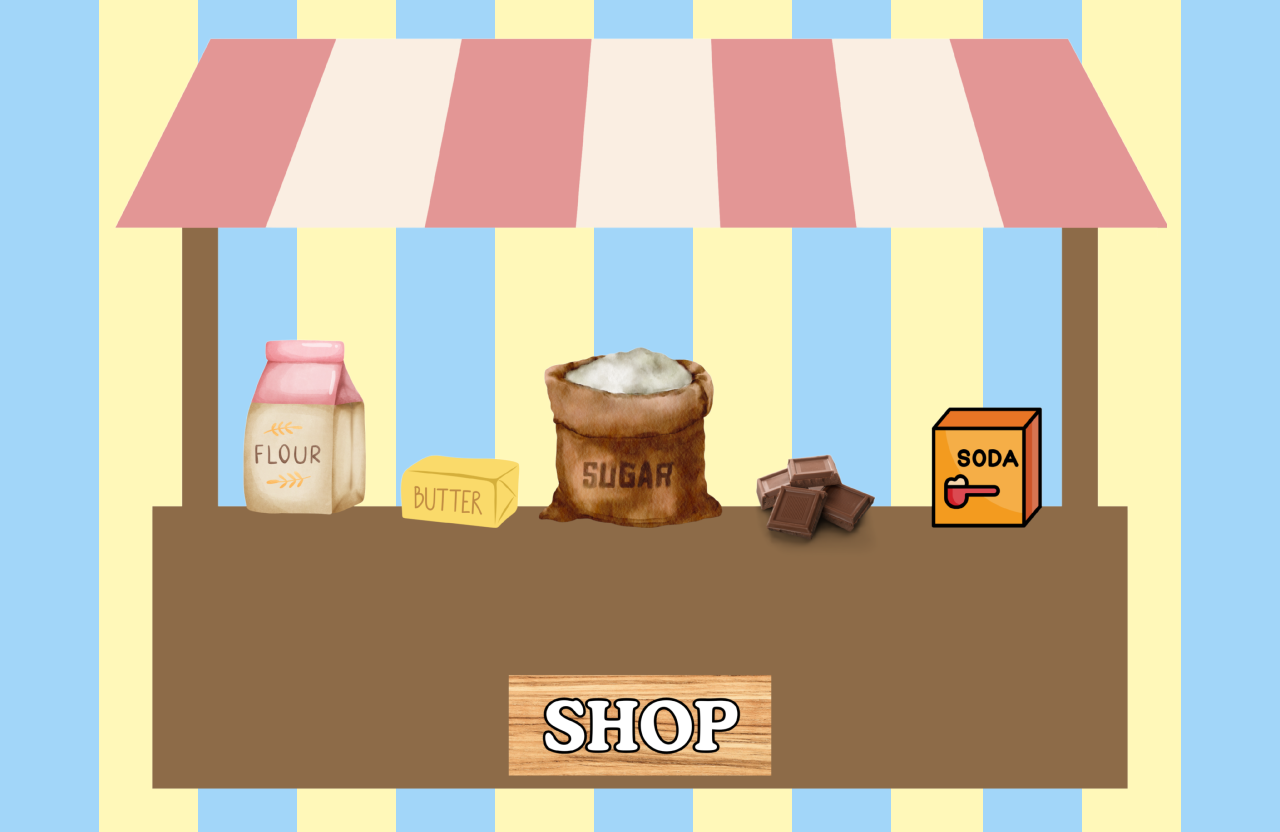
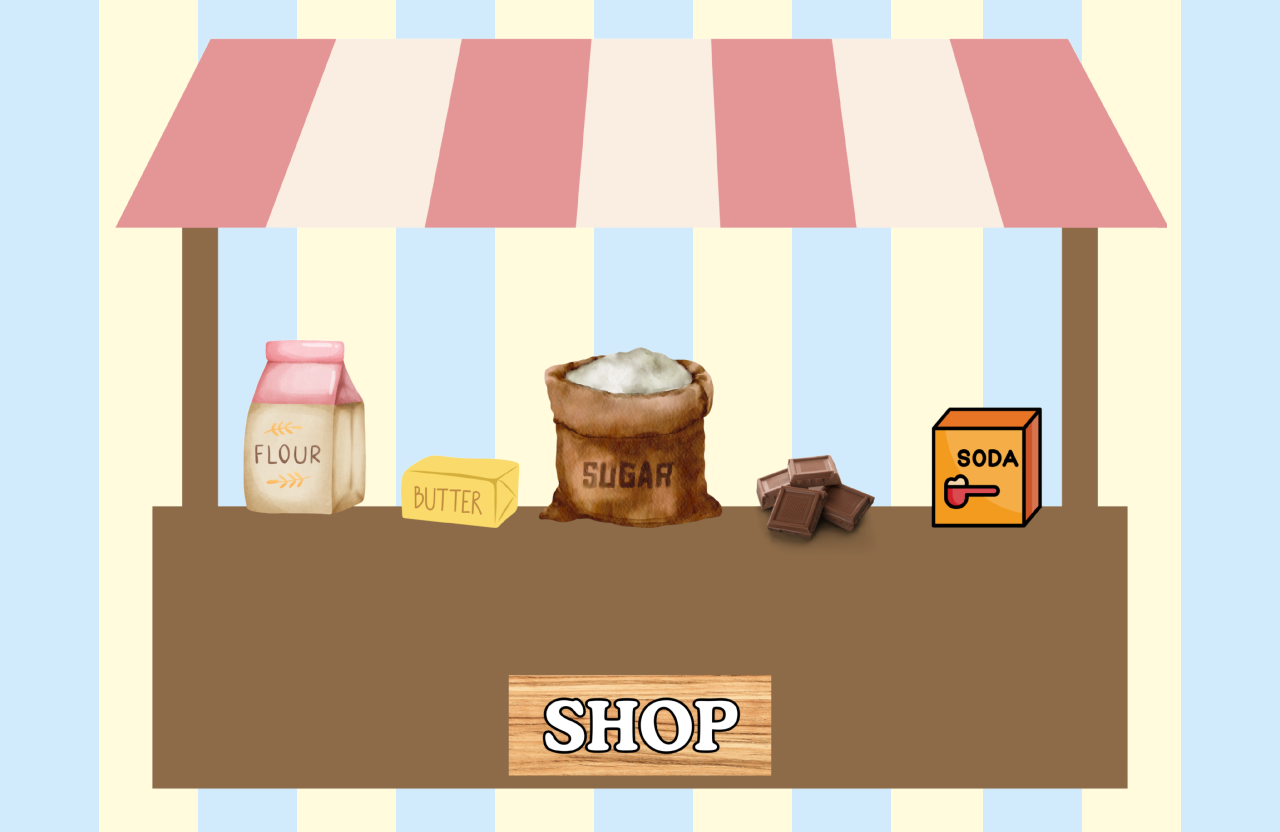
Changed opacity on Shopping background

diff --git a/src/BakingMinigame.ts b/src/BakingMinigame.ts
@@ -13,7 +13,6 @@ export class BakingMinigame {
 
     private timeRemaining: number;
 
-    // ADDED '!' HERE
     private currentProblem!: { question: string; answer: number };
     private correctAnswers: number = 0; 
     private totalProblems: number = 0; 
@@ -22,7 +21,6 @@ export class BakingMinigame {
     private minigameUIGroup: Konva.Group; 
     private choiceUIGroup: Konva.Group; 
     
-    // ADDED '!' TO THESE UI ELEMENTS
     private timerText!: Konva.Text;
     private problemText!: Konva.Text;
     private scoreText!: Konva.Text; 
@@ -146,10 +144,9 @@ export class BakingMinigame {
         });
         this.minigameUIGroup.add(this.inputText);
 
-        // TIMER - MOVED TO CENTER, BELOW INPUT
         this.timerText = new Konva.Text({
             x: 0,
-            y: inputBoxY + inputBoxHeight + 20, // approx 0.55 height
+            y: inputBoxY + inputBoxHeight + 20, 
             width: stageWidth,
             text: `Time: ${this.timeRemaining}s`,
             fontSize: Math.min(stageWidth * 0.024, 28),
@@ -159,10 +156,9 @@ export class BakingMinigame {
         });
         this.minigameUIGroup.add(this.timerText);
 
-        // FEEDBACK - MOVED DOWN
         this.feedbackText = new Konva.Text({
             x: 0,
-            y: inputBoxY + inputBoxHeight + 60, // approx 0.62 height
+            y: inputBoxY + inputBoxHeight + 60, 
             width: stageWidth,
             text: '',
             fontSize: Math.min(stageWidth * 0.028, 34),
@@ -171,7 +167,6 @@ export class BakingMinigame {
         });
         this.minigameUIGroup.add(this.feedbackText);
 
-        // INSTRUCTIONS - MOVED DOWN
         const instructions = new Konva.Text({
             x: 0,
             y: stageHeight * 0.75,
@@ -184,44 +179,40 @@ export class BakingMinigame {
         this.minigameUIGroup.add(instructions);
 
         //Exit Button
-        const exitButton = new ExitButton(this.stage, this.layer, () => {
+        new ExitButton(this.stage, this.layer, () => {
             this.cleanup();
-            window.location.href = '/login.hmtl'; //go to login page
+            window.location.href = '/login.html'; 
         });
 
         //Info Button
-        const infoButton = new InfoButton(
+        new InfoButton(
             this.stage, 
             this.layer,
             'Solve as many division problems as you can within the time limit to earn bonus tips! \n\nType your answer and press ENTER. \n\nEach correct answer gives you $1 tip. \nGood luck!'
         );
 
-        // Shuffle button to the right of input box
+        // Shuffle button
         this.shuffleButton = new ShuffleButton(
             this.stage,
             this.layer,
             this.minigameUIGroup,
-            stageWidth * 0.3, // inputBoxWidth
+            stageWidth * 0.3, 
             inputBoxY,
             inputBoxHeight,
             () => this.shuffleProblem(),
-            50 // spacing
+            50 
         );
     }
 
     private shuffleProblem(): void {
-        // Clear user input
         this.userInput = '';
         this.updateInputDisplay();
         
-        // Clear any feedback
         if (this.feedbackText) {
             this.feedbackText.text('');
         }
         
-        // Generate new problem
         this.generateNewProblem();
-        
         this.layer.draw();
     }
     
@@ -235,10 +226,11 @@ export class BakingMinigame {
 
         const stageWidth = this.stage.width();
         const stageHeight = this.stage.height();
-        const stage = this.stage; 
+
+        // --- FIX 1: Removed Dark Overlay (Background remains visible/clear) ---
 
         const modalWidth = stageWidth * 0.7;
-        const modalHeight = stageHeight * 0.6;
+        const modalHeight = stageHeight * 0.7;
         const modalX = (stageWidth - modalWidth) / 2;
         const modalY = (stageHeight - modalHeight) / 2;
 
@@ -286,7 +278,7 @@ export class BakingMinigame {
             y: subTitle.y() + subTitle.height() + modalHeight * 0.05, 
             width: modalWidth * 0.8, 
             text: newBodyText,
-            fontSize: Math.min(stageWidth * 0.022, 26), 
+            fontSize: Math.min(stageWidth * 0.022, 24), 
             fill: '#333', 
             align: 'center', 
             lineHeight: 1.6,
@@ -308,68 +300,96 @@ export class BakingMinigame {
         });
         this.choiceUIGroup.add(promptText);
 
-        const playButtonWidth = modalWidth * 0.25;
-        const playButtonHeight = modalHeight * 0.15;
-        const playButtonX = modalX + modalWidth * 0.3 - playButtonWidth / 2; 
+        // --- FIX 2: Buttons Closer Together ---
         
-        const playButtonY = promptText.y() + promptText.height() + modalHeight * 0.05;
+        const buttonWidth = modalWidth * 0.2;
+        const buttonHeight = modalHeight * 0.15;
+        const buttonGap = modalWidth * 0.2; // Space between buttons
+        
+        const buttonY = modalY + modalHeight - buttonHeight - 40;
+        
+        // Calculate X positions relative to the center of the modal
+        const modalCenterX = modalX + (modalWidth / 2);
+        
+        // Play Button to the left of center
+        const playButtonX = modalCenterX - buttonWidth - (buttonGap / 2);
+        // Skip Button to the right of center
+        const skipButtonX = modalCenterX + (buttonGap / 2);
 
-        const playButtonGroup = new Konva.Group({ x: playButtonX, y: playButtonY }); 
+        // PLAY BUTTON (Green)
+        const playButtonGroup = new Konva.Group({ x: playButtonX, y: buttonY }); 
         const playRect = new Konva.Rect({
-            width: playButtonWidth, height: playButtonHeight, fill: '#90EE90',
-            cornerRadius: 10, stroke: '#2E8B57', strokeWidth: 3,
+            width: buttonWidth, height: buttonHeight, 
+            fill: '#4CAF50', 
+            cornerRadius: 10, 
             shadowColor: 'black', shadowBlur: 5, shadowOpacity: 0.2, shadowOffset: {x: 2, y: 2}
         });
         const playText = new Konva.Text({
-            width: playButtonWidth, height: playButtonHeight, text: 'PLAY', 
-            fontSize: Math.min(stageWidth * 0.025, 25), fill: 'white',
-            align: 'center', verticalAlign: 'middle', fontStyle: 'bold',
+            width: buttonWidth, height: buttonHeight, text: 'PLAY', 
+            fontSize: Math.min(stageWidth * 0.08, 24), 
+            fill: 'white',
+            align: 'center', verticalAlign: 'middle', 
+            fontFamily: '"Press Start 2P"', 
             listening: false 
         });
         playButtonGroup.add(playRect, playText);
         this.choiceUIGroup.add(playButtonGroup); 
 
-        playRect.on('click tap', (evt) => {
+        playButtonGroup.on('click tap', (evt) => {
             evt.cancelBubble = true; 
             this.choiceUIGroup.visible(false); 
             this.showMinigameUI();           
         });
-        playRect.on('mouseenter', () => { stage.container().style.cursor = 'pointer'; playRect.fill('#3CB371'); this.layer.batchDraw(); });
-        playRect.on('mouseleave', () => { stage.container().style.cursor = 'default'; playRect.fill('#90EE90'); this.layer.batchDraw(); });
+        playButtonGroup.on('mouseenter', () => { 
+            this.stage.container().style.cursor = 'pointer'; 
+            playRect.fill('#45a049'); 
+            this.layer.batchDraw(); 
+        });
+        playButtonGroup.on('mouseleave', () => { 
+            this.stage.container().style.cursor = 'default'; 
+            playRect.fill('#4CAF50'); 
+            this.layer.batchDraw(); 
+        });
 
-        const skipButtonWidth = playButtonWidth;
-        const skipButtonHeight = playButtonHeight;
-        const skipButtonX = modalX + modalWidth * 0.7 - skipButtonWidth / 2; 
-        const skipButtonY = playButtonY; 
-
-        const skipButtonGroup = new Konva.Group({ x: skipButtonX, y: skipButtonY }); 
+        // SKIP BUTTON (Red)
+        const skipButtonGroup = new Konva.Group({ x: skipButtonX, y: buttonY }); 
         const skipRect = new Konva.Rect({
-            width: skipButtonWidth, height: skipButtonHeight, fill: '#F08080',
-            cornerRadius: 10, stroke: '#CD5C5C', strokeWidth: 3,
+            width: buttonWidth, height: buttonHeight, 
+            fill: '#e74c3c', 
+            cornerRadius: 10, 
             shadowColor: 'black', shadowBlur: 5, shadowOpacity: 0.2, shadowOffset: {x: 2, y: 2}
         });
         const skipText = new Konva.Text({
-            width: skipButtonWidth, height: skipButtonHeight, text: 'SKIP', 
-            fontSize: Math.min(stageWidth * 0.025, 25), fill: 'white',
-            align: 'center', verticalAlign: 'middle', fontStyle: 'bold',
+            width: buttonWidth, height: buttonHeight, text: 'SKIP', 
+            fontSize: Math.min(stageWidth * 0.08, 24), 
+            fill: 'white',
+            align: 'center', verticalAlign: 'middle', 
+            fontFamily: '"Press Start 2P"',
             listening: false 
         });
         skipButtonGroup.add(skipRect, skipText);
         this.choiceUIGroup.add(skipButtonGroup); 
 
-        skipRect.on('click tap', (evt) => {
+        skipButtonGroup.on('click tap', (evt) => {
             evt.cancelBubble = true; 
             this.choiceUIGroup.visible(false); 
             this.correctAnswers = 0;          
             this.endMinigame(true); 
         });
-        skipRect.on('mouseenter', () => { stage.container().style.cursor = 'pointer'; skipRect.fill('#CD5C5C'); this.layer.batchDraw(); });
-        skipRect.on('mouseleave', () => { stage.container().style.cursor = 'default'; skipRect.fill('#F08080'); this.layer.batchDraw(); });
+        skipButtonGroup.on('mouseenter', () => { 
+            this.stage.container().style.cursor = 'pointer'; 
+            skipRect.fill('#c0392b'); 
+            this.layer.batchDraw(); 
+        });
+        skipButtonGroup.on('mouseleave', () => { 
+            this.stage.container().style.cursor = 'default'; 
+            skipRect.fill('#e74c3c'); 
+            this.layer.batchDraw(); 
+        });
 
         this.choiceUIGroup.visible(true);
         this.layer.batchDraw();
     }
-
 
     private showMinigameUI(): void {
         this.choiceUIGroup.visible(false);

diff --git a/src/ui/ExitButton.ts b/src/ui/ExitButton.ts
@@ -44,7 +44,7 @@ export class ExitButton{
             height: buttonHeight,
             text: 'EXIT',
             fontSize: Math.min(stageWidth*0.022,20),
-            fontFamily: 'Arial',
+            fontFamily: 'Press Start 2P',
             fontStyle: 'bold',
             fill: '#FFFFFF',
             align: 'center',
